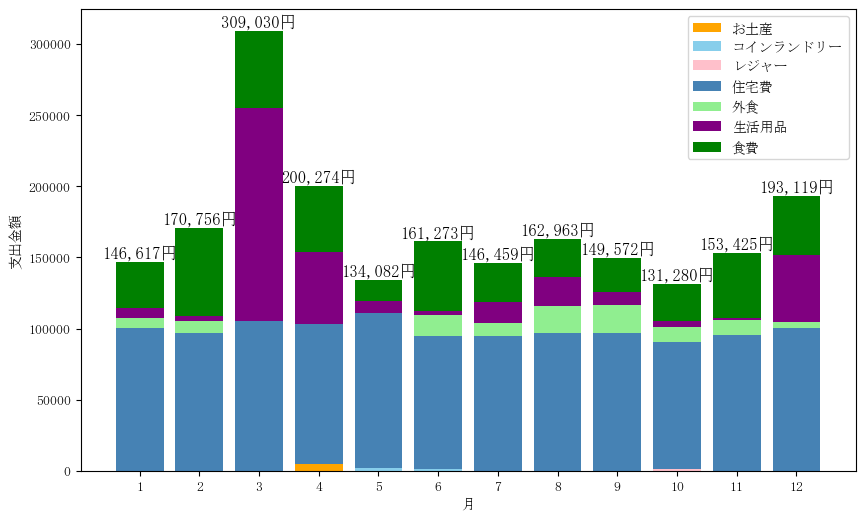
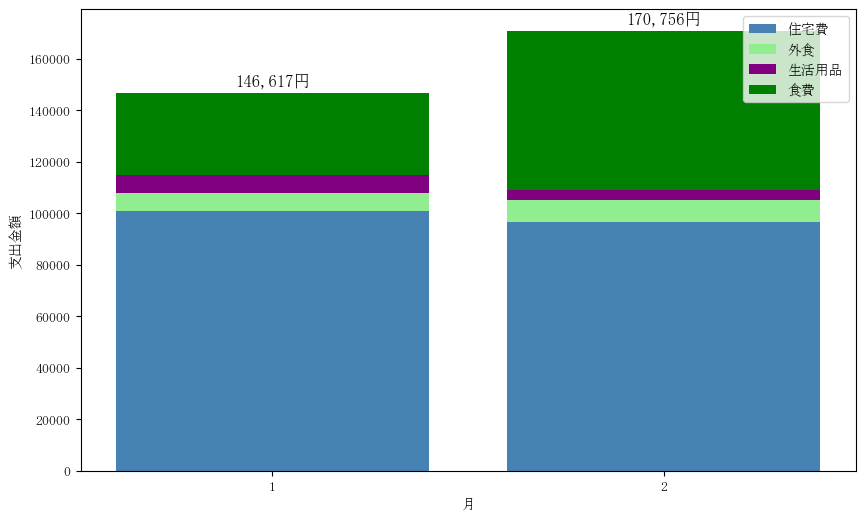
分析画面に年のプルダウンを作成して 切り替え可能に

diff --git a/templates/analysis.html b/templates/analysis.html
@@ -23,6 +23,16 @@
 
     <div class="container">
         <h2>支出のグラフ</h2>
+        <form method="POST">
+            <label for="year">年を選択：</label>
+            <select name="year" id="year" onchange="this.form.submit()">
+                {% for year in years %}
+                <option value="{{ year }}" {% if year == selected_year %}selected{% endif %}>
+                    {{ year }}
+                </option>
+                {% endfor %}
+            </select>
+        </form>
         <div class="graph_container">
             <table border="1">
                 <tr>

diff --git a/app.py b/app.py
@@ -1,4 +1,4 @@
-from flask import Flask, render_template, request, redirect, jsonify
+from flask import Flask, render_template, request, redirect, jsonify, session
 import sqlite3
 import matplotlib
 matplotlib.use('Agg')  # ここでバックエンドをAggに設定
@@ -10,6 +10,22 @@ import matplotlib.font_manager as fm  # これを追加
 app = Flask(__name__)
 DB_FILE = "kakeibo.db"
 STATIC_FOLDER = "static"  # 画像を保存するフォルダ
+app.secret_key = "your_secret_key_here"
+
+def get_latest_year():
+    """データベースからyear列の最大値を取得"""
+    conn = sqlite3.connect(DB_FILE)
+    cursor = conn.cursor()
+    cursor.execute("SELECT MAX(year) FROM expenses")  # 最大のyearを取得
+    latest_year = cursor.fetchone()[0]  # 結果を取得
+    conn.close()
+    return latest_year if latest_year else 2024  # データがない場合はデフォルト2024
+
+@app.before_request
+def set_default_year():
+    """アプリ起動後に一度だけ実行し、初回アクセス時に最大yearを設定"""
+    if "selected_year" not in session:
+        session["selected_year"] = get_latest_year()  # 初期値をセット
 
 # 📌 データベースの初期化（テーブル作成）
 def init_db():
@@ -53,11 +69,25 @@ def input_page():
     return render_template("input.html", expenses=expenses)
 
 # 📌 支出分析ページ
-@app.route("/analysis")
+@app.route("/analysis", methods=["GET", "POST"])
 def analysis_page():
-    graph_url = create_expense_graph()  # 棒グラフを生成
-    pie_chart_url = create_pie_chart()  # 円グラフを生成
-    return render_template("analysis.html", graph_url=graph_url, pie_chart_url=pie_chart_url)
+    if request.method == "POST":
+        session["selected_year"] = int(request.form.get("year", session["selected_year"]))
+
+    selected_year = session["selected_year"]
+
+    graph_url = create_expense_graph(selected_year)  # 棒グラフを生成
+    pie_chart_url = create_pie_chart(selected_year)  # 円グラフを生成
+    
+    # データベースからユニークな年のリストを取得
+    conn = sqlite3.connect(DB_FILE)
+    cursor = conn.cursor()
+    cursor.execute("SELECT DISTINCT year FROM expenses ORDER BY year DESC")
+    years = [row[0] for row in cursor.fetchall()]
+    conn.close()
+    
+    return render_template("analysis.html", graph_url=graph_url, pie_chart_url=pie_chart_url, years=years, selected_year=selected_year)
+
 
 # 📌 データを登録するAPI
 @app.route("/submit", methods=["POST"])
@@ -137,7 +167,7 @@ def get_data():
     return jsonify(expenses)
 
 # 📌 グラフを作成する関数（カテゴリーごとの月別支出額）
-def create_expense_graph():
+def create_expense_graph(year):
     # 🔹 日本語フォントの設定
     font_path = "/usr/share/fonts/opentype/ipafont-mincho/ipam.ttf"
     if not os.path.exists(font_path):
@@ -157,9 +187,10 @@ def create_expense_graph():
     cursor.execute("""
         SELECT month, category, SUM(amount) 
         FROM expenses 
+        WHERE year = ?
         GROUP BY month, category
         ORDER BY month ASC
-    """)
+    """,(year,))
     data = cursor.fetchall()
     conn.close()
 
@@ -216,7 +247,7 @@ def create_expense_graph():
 
 
 # 📌 カテゴリーごとの年間支出割合の円グラフを作成
-def create_pie_chart():
+def create_pie_chart(year):
     conn = sqlite3.connect(DB_FILE)
     cursor = conn.cursor()
 
@@ -224,8 +255,9 @@ def create_pie_chart():
     cursor.execute("""
         SELECT category, SUM(amount) 
         FROM expenses 
+        WHERE year = ?
         GROUP BY category
-    """)
+    """,(year,))
     data = cursor.fetchall()
     conn.close()
 
